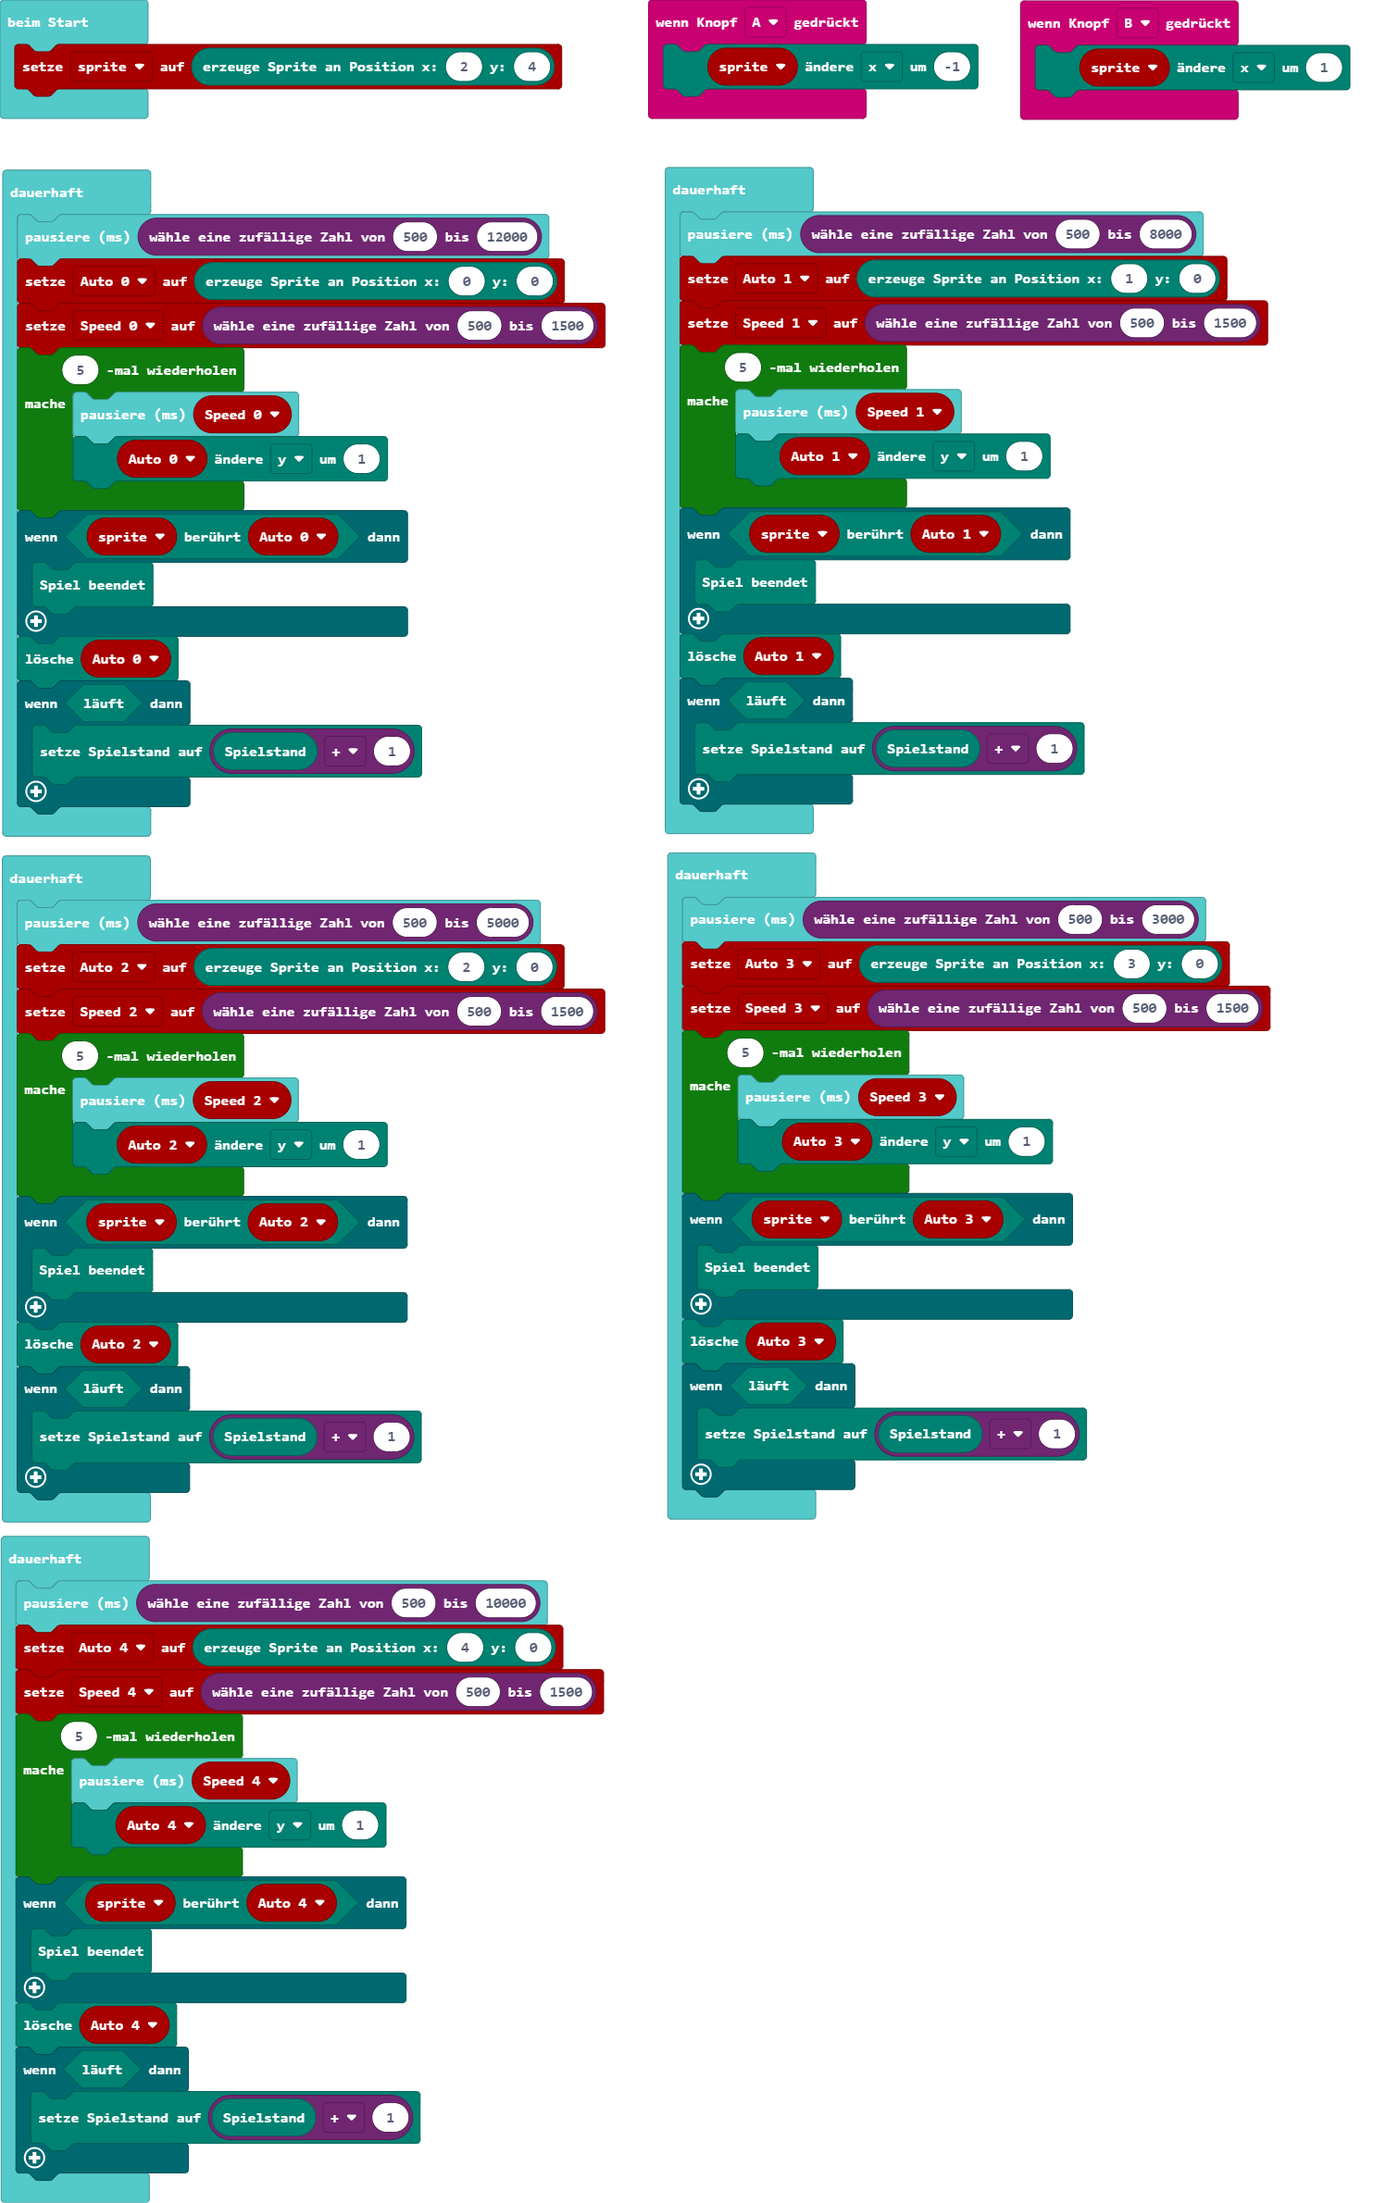
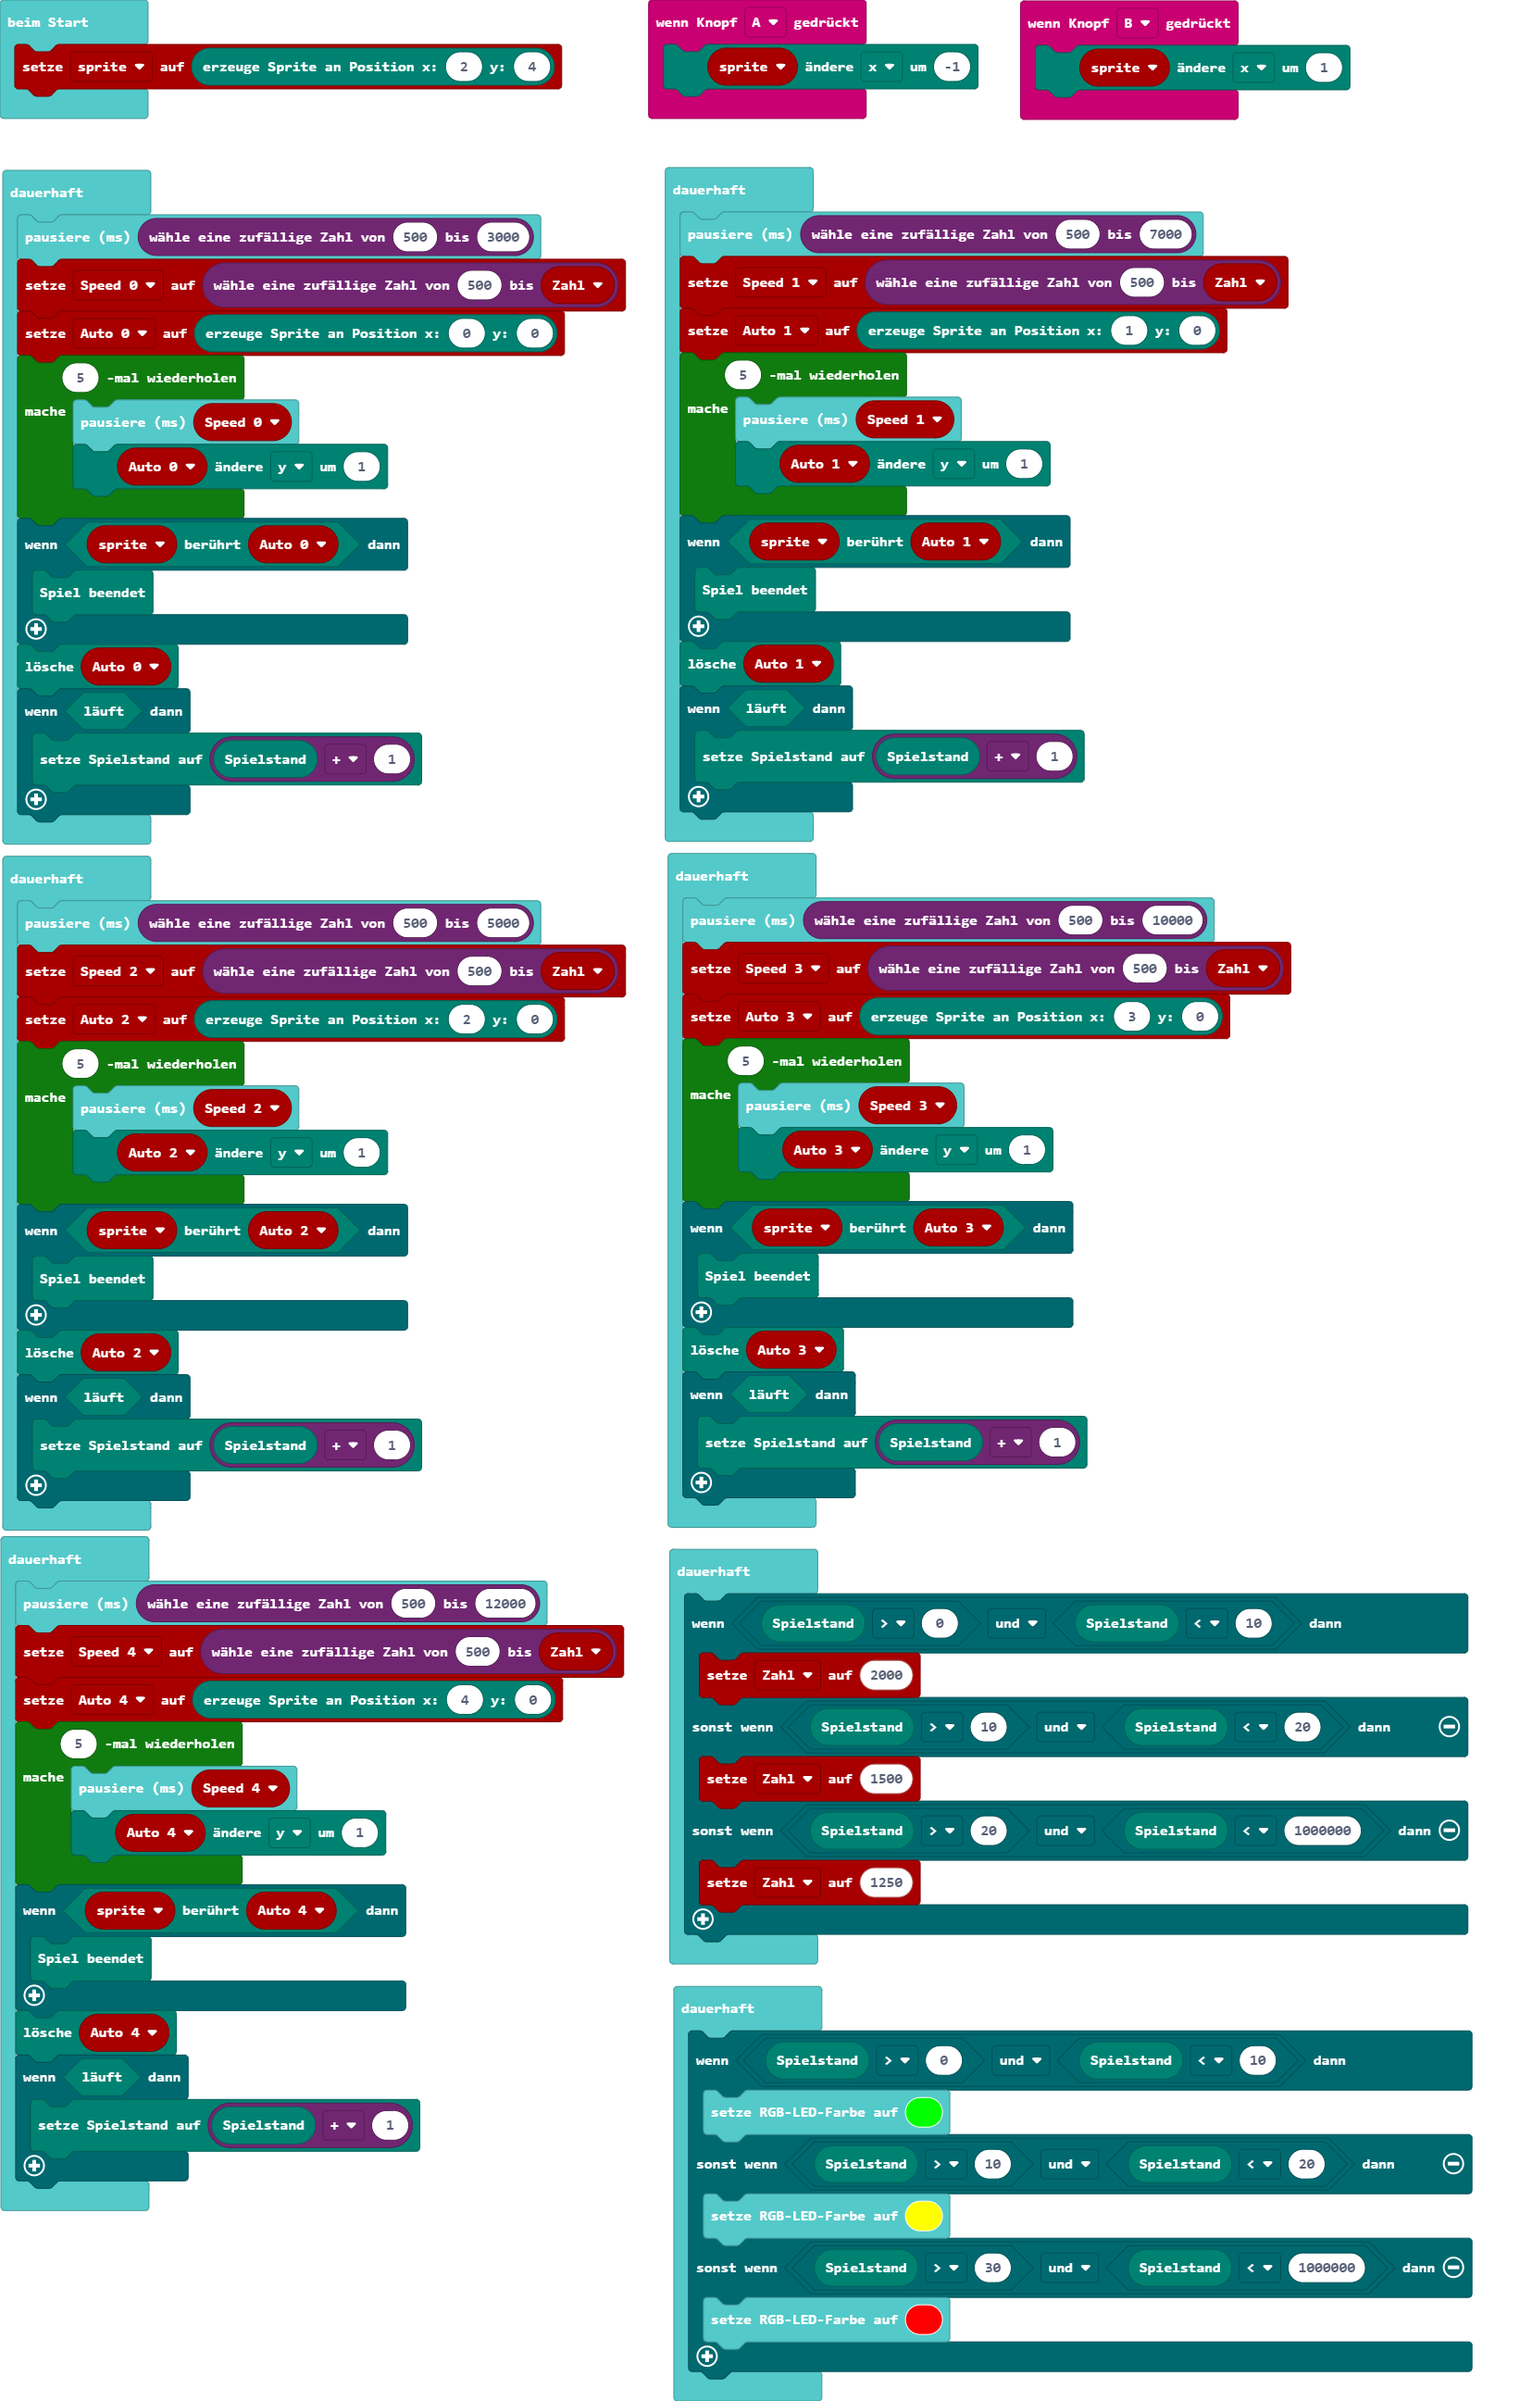
Aktualisiere main.blocks, main.ts

diff --git a/main.ts b/main.ts
@@ -4,22 +4,23 @@ input.onButtonPressed(Button.A, function () {
 input.onButtonPressed(Button.B, function () {
     sprite.change(LedSpriteProperty.X, 1)
 })
-let Speed_4 = 0
 let Auto_4: game.LedSprite = null
-let Speed_3 = 0
+let Speed_4 = 0
 let Auto_3: game.LedSprite = null
-let Speed_2 = 0
+let Speed_3 = 0
 let Auto_2: game.LedSprite = null
-let Speed_1 = 0
+let Speed_2 = 0
 let Auto_1: game.LedSprite = null
-let Speed_0 = 0
+let Speed_1 = 0
 let Auto_0: game.LedSprite = null
+let Zahl = 0
+let Speed_0 = 0
 let sprite: game.LedSprite = null
 sprite = game.createSprite(2, 4)
 basic.forever(function () {
-    basic.pause(randint(500, 12000))
+    basic.pause(randint(500, 3000))
+    Speed_0 = randint(500, Zahl)
     Auto_0 = game.createSprite(0, 0)
-    Speed_0 = randint(500, 1500)
     for (let index = 0; index < 5; index++) {
         basic.pause(Speed_0)
         Auto_0.change(LedSpriteProperty.Y, 1)
@@ -33,9 +34,9 @@ basic.forever(function () {
     }
 })
 basic.forever(function () {
-    basic.pause(randint(500, 8000))
+    basic.pause(randint(500, 7000))
+    Speed_1 = randint(500, Zahl)
     Auto_1 = game.createSprite(1, 0)
-    Speed_1 = randint(500, 1500)
     for (let index = 0; index < 5; index++) {
         basic.pause(Speed_1)
         Auto_1.change(LedSpriteProperty.Y, 1)
@@ -50,8 +51,8 @@ basic.forever(function () {
 })
 basic.forever(function () {
     basic.pause(randint(500, 5000))
+    Speed_2 = randint(500, Zahl)
     Auto_2 = game.createSprite(2, 0)
-    Speed_2 = randint(500, 1500)
     for (let index = 0; index < 5; index++) {
         basic.pause(Speed_2)
         Auto_2.change(LedSpriteProperty.Y, 1)
@@ -65,9 +66,9 @@ basic.forever(function () {
     }
 })
 basic.forever(function () {
-    basic.pause(randint(500, 3000))
+    basic.pause(randint(500, 10000))
+    Speed_3 = randint(500, Zahl)
     Auto_3 = game.createSprite(3, 0)
-    Speed_3 = randint(500, 1500)
     for (let index = 0; index < 5; index++) {
         basic.pause(Speed_3)
         Auto_3.change(LedSpriteProperty.Y, 1)
@@ -81,9 +82,9 @@ basic.forever(function () {
     }
 })
 basic.forever(function () {
-    basic.pause(randint(500, 10000))
+    basic.pause(randint(500, 12000))
+    Speed_4 = randint(500, Zahl)
     Auto_4 = game.createSprite(4, 0)
-    Speed_4 = randint(500, 1500)
     for (let index = 0; index < 5; index++) {
         basic.pause(Speed_4)
         Auto_4.change(LedSpriteProperty.Y, 1)
@@ -94,5 +95,23 @@ basic.forever(function () {
     Auto_4.delete()
     if (game.isRunning()) {
         game.setScore(game.score() + 1)
+    }
+})
+basic.forever(function () {
+    if (game.score() > 0 && game.score() < 10) {
+        Zahl = 2000
+    } else if (game.score() > 10 && game.score() < 20) {
+        Zahl = 1500
+    } else if (game.score() > 20 && game.score() < 1000000) {
+        Zahl = 1250
+    }
+})
+basic.forever(function () {
+    if (game.score() > 0 && game.score() < 10) {
+        basic.setLedColor(0x00ff00)
+    } else if (game.score() > 10 && game.score() < 20) {
+        basic.setLedColor(0xffff00)
+    } else if (game.score() > 30 && game.score() < 1000000) {
+        basic.setLedColor(0xff0000)
     }
 })
